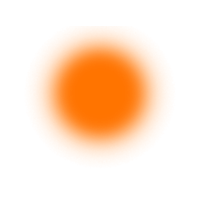
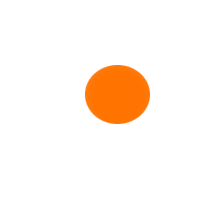
Cambios en la imagenes y nuevos obstaculos

Changed region(s): [[0.18, 0.15, 0.84, 0.78]]

diff --git a/juego.cpp b/juego.cpp
@@ -11,7 +11,7 @@ juego::juego(QWidget *parent) :
     ui->setupUi(this);
     scene = new QGraphicsScene(X, Y, W, H);
     //scene->setSceneRect(0,0,1000,500);
-    cargraf = new Cuerpograf(0,0,0,0, picture = ":/carro_rojo.png", 150, 150);
+    cargraf = new Cuerpograf(0,0,0,0, picture = ":/carro_rojo.png", 100, 55);
 
     // TIMERS**
     int m = 10;
@@ -27,12 +27,17 @@ juego::juego(QWidget *parent) :
     timer_bol->start(600);
     connect(timer_bol,SIGNAL(timeout()),this,SLOT(bolas()));
 
+    timer_bus = new QTimer();
+    timer_bus->start(3000);
+    connect(timer_bus,SIGNAL(timeout()),this,SLOT(bus()));
+
+
     // FIN TIMERS**
 
     ui->graphicsView->setScene(scene);
-    ui->graphicsView->setBackgroundBrush(QBrush(QImage(":/fondo.jpg")));
+    ui->graphicsView->setBackgroundBrush(QBrush(QImage(":/apo.png")));
 
-    cargraf->getCuerpo()->setValores(0,400);
+    cargraf->getCuerpo()->setValores(0,450);
     cargraf->Set_pos();
     scene->addItem(cargraf);
     scene->setFocusItem(cargraf);
@@ -40,42 +45,106 @@ juego::juego(QWidget *parent) :
     srand(time(NULL));
 }
 
-juego::~juego()
-{
-    delete ui;
-}
 
 void juego::keyPressEvent(QKeyEvent *event)
 {
-    if (event->key()==Qt::Key_D){
-
+    if (event->key()==Qt::Key_D)
+    {
         cargraf->getCuerpo()->aceleracion();
-
     }
 
-    if (event->key() == Qt::Key_W && cargraf->getCuerpo()->getPy() == 400){
-
-        cargraf->getCuerpo()->setVy(-100);
+    if (event->key() == Qt::Key_W && cargraf->getCuerpo()->getPy() == 450)
+    {
+        cargraf->getCuerpo()->setVy(-130);
     }
 
-    if(event->key()==Qt::Key_A){
-
+    if(event->key()==Qt::Key_A)
+    {
         cargraf->getCuerpo()->setVx(cargraf->getCuerpo()->getVx()*0.5);
-
     }
 }
 
 void juego::keyReleaseEvent(QKeyEvent *event)
 {
-    if (event->isAutoRepeat()){
+    if (event->isAutoRepeat())
+    {
         return;
     }
 
     else if (event->key() == Qt::Key_D)
-     {
+    {
         flag = true;
     }
 }
+
+//TIMER_MOV **
+
+void juego::caer()
+{
+    //BOLAS **
+    for (int i = 0; i < _bolas.size(); i++)
+    {
+        _bolas[i]->getCuerpo()->velocidad_Y();
+        _bolas[i]->Set_pos();
+    }
+
+    //COLISIÓN **
+    for (int j = 0; j < _bolas.size(); j++)
+    {
+        if(cargraf->collidesWithItem(_bolas[j]))
+        {
+            //_bolas[j]->setPicture(":/carro_rojo.png");
+            scene->removeItem(_bolas[j]);
+        }
+    }
+
+    //BUSES **
+    for (int X = 0; X < _bus.size(); X++)
+    {
+        _bus[X]->getCuerpo()->velocidad_X();
+        _bus[X]->Set_pos();
+    }
+
+    //COLISIÓN **
+    for(int Y = 0 ; Y < _bus.size() ; Y++){
+        if(_bus[Y]->collidesWithItem(cargraf)){
+            scene->removeItem(_bus[Y]);
+        }
+    }
+
+    //REMOVE PASADA LA ESCENA **
+    for(int k=0 ; k < _bus.size() ; k++){
+        if(_bus[k]->getCuerpo()->getPx()<=-20){
+            scene->removeItem(_bus[k]);
+        }
+    }
+}
+
+//TIMER_BOL **
+
+void juego::bolas()
+{
+    float pos = 400 + rand()% (1000-400);
+
+    _bolas.append(new Cuerpograf(0,0,0,0, picture = ":/bola_png.png", 90, 90));
+    _bolas[cont_bola]->getCuerpo()->setValores(cargraf->getCuerpo()->getPx()+pos, 0);
+    _bolas[cont_bola]->Set_pos();
+
+    scene->addItem(_bolas[cont_bola]);
+    cont_bola++;
+}
+
+void juego::bus()
+{
+     float pos = 400 + rand()% (1000-400);
+    _bus.append(new Cuerpograf(0,0,0,0, picture = ":/bus.png", 200, 150));
+    _bus[cont_bus]->getCuerpo()->setValores(cargraf->getCuerpo()->getPx()+500+pos, 390);
+    _bus[cont_bus]->Set_pos();
+    scene->addItem(_bus[cont_bus]);
+    cont_bus++;
+}
+
+//TIMER **
 
 void juego::move()
 {
@@ -89,29 +158,7 @@ void juego::move()
     cargraf->Set_pos();
 }
 
-void juego::caer()
+juego::~juego()
 {
-    for (int i = 0; i < _bolas.size(); i++){
-        _bolas[i]->getCuerpo()->velocidad_Y();
-        _bolas[i]->Set_pos();
-    }
-    for (int j = 0;j<_bolas.size();j++){
-        if(cargraf->collidesWithItem(_bolas[j])){
-            scene->removeItem(_bolas[j]);
-        }
-    }
-
-}
-
-
-void juego::bolas()
-{
-    float pos = 400 + rand()% (1000-400);
-
-    _bolas.append(new Cuerpograf(0,0,0,0,picture = ":/bola_png.png", 90, 90));
-    _bolas[cont]->getCuerpo()->setValores(cargraf->getCuerpo()->getPx()+pos, 0);
-    _bolas[cont]->Set_pos();
-
-    scene->addItem(_bolas[cont]);
-    cont++;
+    delete ui;
 }

diff --git a/juego.h b/juego.h
@@ -24,6 +24,7 @@ class juego : public QWidget
 
 public slots:
 
+    void bus();
     void move();
     void caer();
     void bolas();
@@ -39,7 +40,8 @@ private:
 
     Ui::juego *ui;
 
-    int cont = 0;
+    int cont_bola = 0;
+    int cont_bus = 0;
     bool hola = false;
 
     float contAC = 0;
@@ -52,10 +54,12 @@ private:
     QTimer * timer;                 //Timer oficial.
     QTimer * timer_mov;             //Timer parabolico.
     QTimer * timer_bol;             //Timer generar bolas cayendo.
+    QTimer * timer_bus;
 
     QString picture;                //Seleccionar imagenes respectivas.
     Cuerpograf *cargraf;            //Carro principal.
     QGraphicsScene * scene;         //Escena;
+    QList < Cuerpograf * > _bus;    //Buses moviendose, obstaculos.
     QList < Cuerpograf * > _bolas;  //Bolas cayendo, obstaculos.
 
 };

diff --git a/cuerpo.cpp b/cuerpo.cpp
@@ -65,11 +65,6 @@ void Cuerpo::setValores(float x, float y)
     Py = y;
 }
 
-void Cuerpo::setneg(float value)
-{
-    Px -= value;
-    Py -= value;
-}
 
 void Cuerpo::acelerado()
 {
@@ -78,9 +73,9 @@ void Cuerpo::acelerado()
     Px = Px + Vx*dt;
     Py = Py + Vy*dt + g*pow(dt,2)*0.5;
 
-    if (Py>=400)
+    if (Py >= 450)
     {
-        Py = 400;
+        Py = 450;
     }
 }
 
@@ -104,7 +99,12 @@ void Cuerpo::velocidad_Y()
 {
     Vy = Vy + g*dt;
     Py = Py + Vy*dt + 2*pow(dt,2)*0.5;
+}
 
+void Cuerpo::velocidad_X()
+{
+    Vx = Vx + 20*dt;
+    Px = Px + (-Vx)*dt + 2*pow(dt,2)*0.5;
 }
 
 

diff --git a/cuerpo.h b/cuerpo.h
@@ -31,13 +31,14 @@ public:
     void setVy(float value);
     float getA() const;
     void setA(float value);
+
     void setValores(float x,float y);
-    void setneg(float);
 
     void acelerado();
     void velocidad();
     void aceleracion();
     void velocidad_Y();
+    void velocidad_X();
 };
 
 #endif // CUERPO_H

diff --git a/cuerpograf.cpp b/cuerpograf.cpp
@@ -40,3 +40,8 @@ void Cuerpograf::Set_pos()
 {
     setPos(cuer->getPx(),cuer->getPy());
 }
+
+void Cuerpograf::setPicture(const QString &value)
+{
+    picture = value;
+}

diff --git a/cuerpograf.h b/cuerpograf.h
@@ -20,6 +20,8 @@ public:
     Cuerpo * getCuerpo();
     void Set_pos();
 
+    void setPicture(const QString &value);
+
 private:
 
     Cuerpo *cuer;
